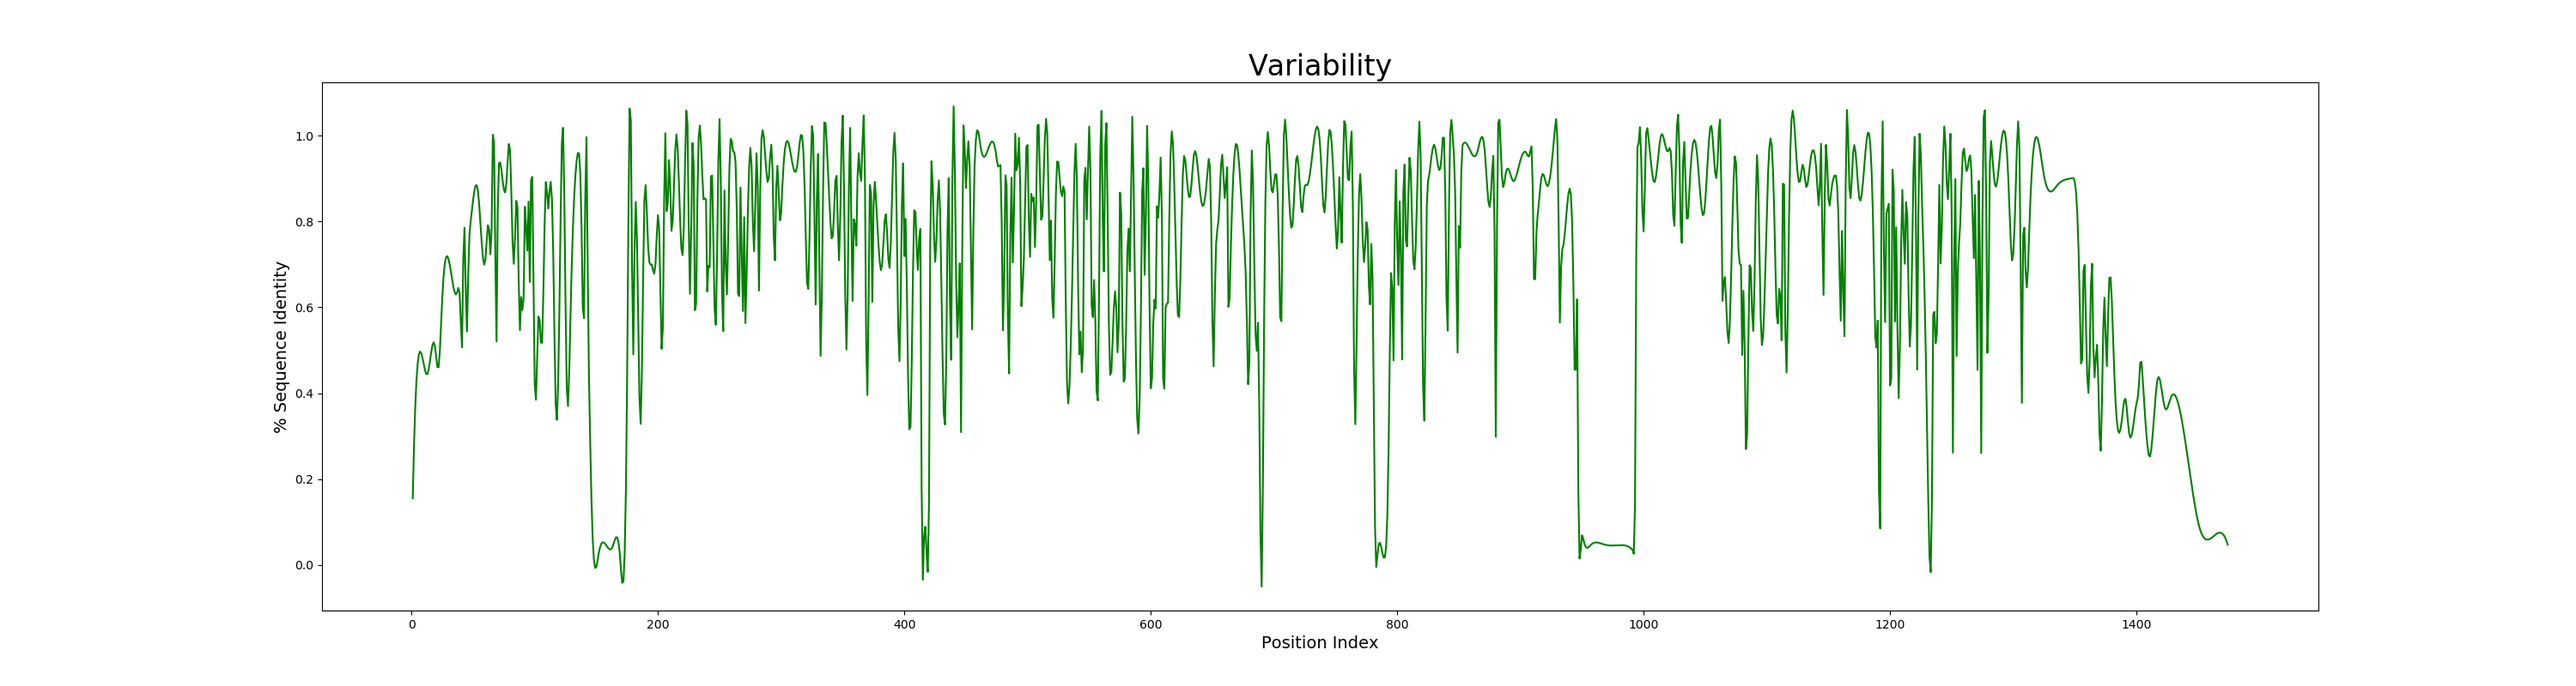
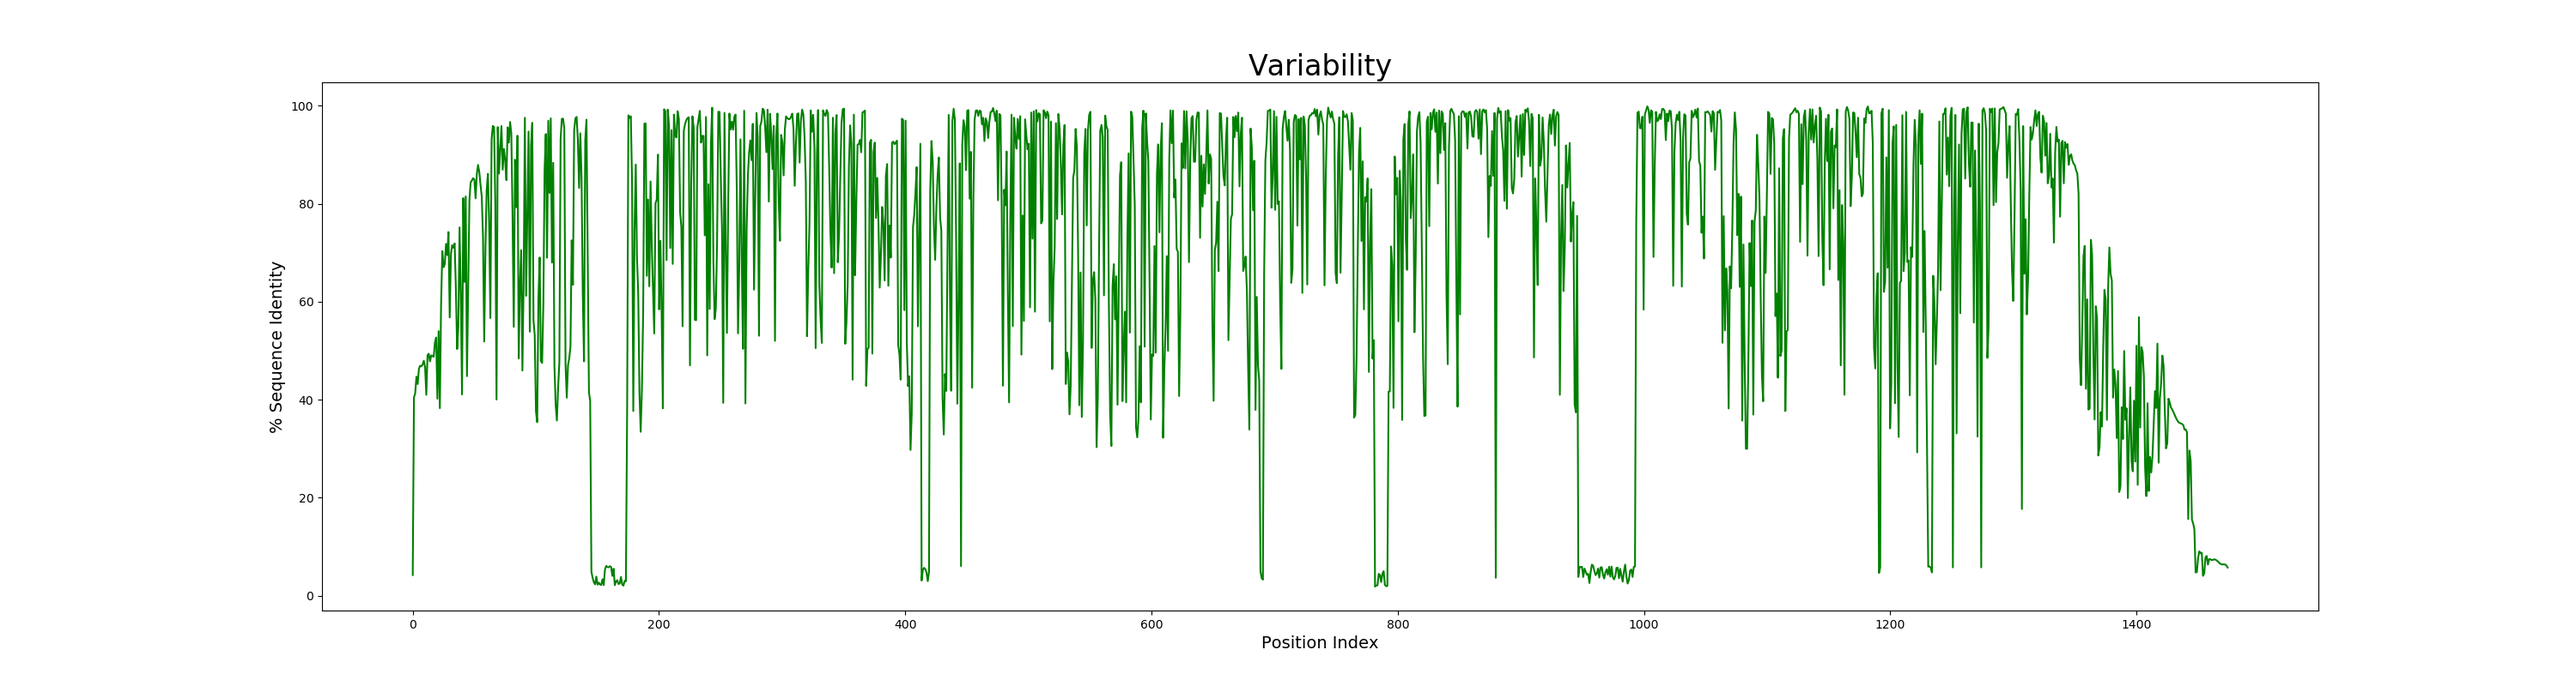
removed whole 16S FNA, added regions plot, changed variability plot to use mapped percentages

diff --git a/homework/homework4/homework4.py b/homework/homework4/homework4.py
@@ -79,7 +79,7 @@ def variability(ids, seqs):
                 pos[i] = (pos[i][0], pos[i][1], pos[i][2], pos[i][3] + 1)
 
     # Determine variabilities based on max value
-    for v1,v2,v3,v4 in pos.values():
+    for v1, v2, v3, v4 in pos.values():
         maxVal = max(v1,v2,v3,v4)
         percentage = maxVal * 1.0 / len(ids)
         percentages.append(percentage)
@@ -99,15 +99,20 @@ def variability(ids, seqs):
 # Plot variability                                                             #
 # ============================================================================ #
 def plot(perc):
-    # Set x and y data
-    x = np.linspace(1, NUM_POSITIONS, NUM_POSITIONS)
-    y = perc
+    # Set x data (positions)
+    x = np.linspace(0, NUM_POSITIONS, NUM_POSITIONS)
+
+    def convert(n):
+        return n * 100
+
+    # Set y data (values mapped to percentages)
+    y = list(map(convert, perc))
 
     # One-dimensional smoothing spline
     spline = UnivariateSpline(x, y)
 
     # Smooth data
-    spline.set_smoothing_factor(10)
+    spline.set_smoothing_factor(20)
 
     # Scale figure output dimensions
     plt.figure(figsize=(30,8))
@@ -170,6 +175,24 @@ def regions(perc):
     return regions
 
 # ============================================================================ #
+# Plot variability regions                                                     #
+# ============================================================================ #
+def plot_regions(regions):
+    plt.plot(NUM_POSITIONS)
+    plt.yticks(np.linspace(0, 0.01, 1, endpoint=True))
+
+    for start, end in regions:
+        plt.axvspan(start, end, color="green")
+
+    # Add title
+    plt.title("Variability Regions", fontsize=24)
+
+    # Save figure to file
+    plt.savefig("regions.png")
+
+    plt.show()
+
+# ============================================================================ #
 # Randomly select 100 sequences for analysis                                   #
 # ============================================================================ #
 def subset(ids, seqs, perc):
@@ -193,26 +216,26 @@ def subset(ids, seqs, perc):
         r1[key] = whole[key][v1[0]:v1[-1] + 1]
         r4[key] = whole[key][v4[0]:v4[-1] + 1]
 
-    with open("whole.fna", "w") as f1:
-        for key1, val1 in whole.items():
-            f1.write(">" + str(key1) + "\n" + val1 + "\n")
+    # with open("whole.fna", "w") as f1:
+    #     for key1, val1 in whole.items():
+    #         f1.write(">" + str(key1) + "\n" + val1 + "\n")
+    #
+    # # Close whole 16S file
+    # f1.close()
 
-    # Close whole 16S file
-    f1.close()
-
-    with open("r1.fna", "w") as f2:
+    with open("r1.fna", "w") as fr1:
         for key2, val2 in r1.items():
-            f2.write(">" + str(key2) + "\n" + val2 + "\n")
+            fr1.write(">" + str(key2) + "\n" + val2 + "\n")
 
     # Close variability region 1 file
-    f2.close()
+    fr1.close()
 
-    with open("r4.fna", "w") as f3:
+    with open("r4.fna", "w") as fr4:
         for key3, val3 in r4.items():
-            f3.write(">" + str(key3) + "\n" + val3 + "\n")
+            fr4.write(">" + str(key3) + "\n" + val3 + "\n")
 
     # Close variability region 4 file
-    f3.close()
+    fr4.close()
 
 # ============================================================================ #
 # Main function                                                                #
@@ -232,7 +255,9 @@ if __name__ == "__main__":
     plot(percentages)
 
     # Find variable regions
-    regions(percentages)
+    regions = regions(percentages)
+
+    plot_regions(regions)
 
     # Randomly select 100 sequences for analysis
-    subset(ids, seqs, percentages)
+    # subset(ids, seqs, percentages)
